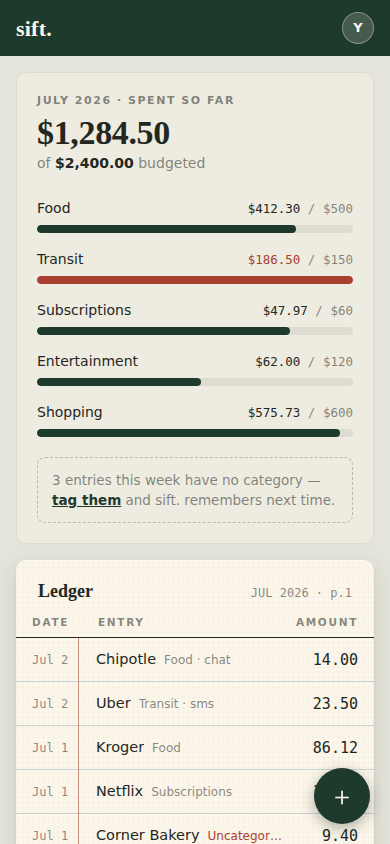
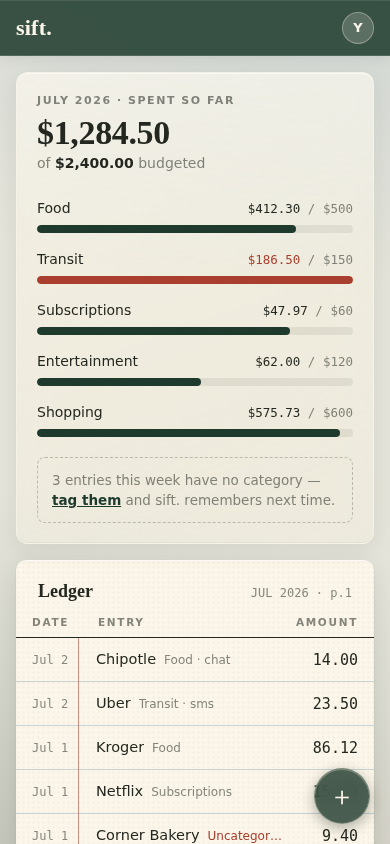
Add liquid-glass tool layer to design: frosted top bar, instrument panels, FAB
Glass is scoped by a three-material rule (blotter desk / paper record /
glass tools): the ledger card stays matte paper; only floating chrome —
sticky top bar, quick-add and chat panels, mobile FAB — gets backdrop
blur, light borders, and a specular top edge, with an @user fallback.
Ambient background washes added so the glass has something to refract.

Claude-Session: https://claude.ai/code/session_01VY6XB6cJspW775NDUbNChs

diff --git a/docs/design/mockups/dashboard.html b/docs/design/mockups/dashboard.html
@@ -24,7 +24,13 @@
   * { margin: 0; padding: 0; box-sizing: border-box; }
 
   body {
-    background: var(--blotter);
+    /* ambient washes give the glass layer something to refract */
+    background:
+      radial-gradient(1100px 640px at 88% -12%, rgba(159, 182, 196, 0.38), transparent 62%),
+      radial-gradient(1200px 760px at -12% 112%, rgba(30, 58, 45, 0.20), transparent 60%),
+      radial-gradient(700px 480px at 55% 118%, rgba(169, 63, 46, 0.07), transparent 65%),
+      var(--blotter);
+    background-attachment: fixed;
     color: var(--ink);
     font-family: "Public Sans", system-ui, sans-serif;
     font-size: 15px;
@@ -36,9 +42,16 @@
 
   :focus-visible { outline: 2px solid var(--banker); outline-offset: 2px; }
 
-  /* ── Top bar: bookcloth ─────────────────────────── */
+  /* ── Top bar: bookcloth behind glass ────────────── */
   .topbar {
-    background: var(--banker);
+    position: sticky;
+    top: 0;
+    z-index: 10;
+    background: rgba(30, 58, 45, 0.86);
+    -webkit-backdrop-filter: blur(14px) saturate(1.5);
+    backdrop-filter: blur(14px) saturate(1.5);
+    border-bottom: 1px solid rgba(251, 246, 233, 0.14);
+    box-shadow: inset 0 1px 0 rgba(251, 246, 233, 0.10), 0 1px 12px rgba(35, 39, 31, 0.10);
     color: var(--page);
     display: flex;
     align-items: center;
@@ -89,11 +102,34 @@
     align-items: start;
   }
 
+  /* ── Glass: the tool layer (never the paper record) ── */
   .panel {
-    background: rgba(251, 246, 233, 0.42);
-    border: 1px solid var(--ink-08);
-    border-radius: 10px;
+    position: relative;
+    background: linear-gradient(160deg, rgba(251, 246, 233, 0.60), rgba(251, 246, 233, 0.34));
+    -webkit-backdrop-filter: blur(16px) saturate(1.4);
+    backdrop-filter: blur(16px) saturate(1.4);
+    border: 1px solid rgba(251, 246, 233, 0.65);
+    border-radius: 12px;
     padding: 20px;
+    box-shadow:
+      inset 0 1px 0 rgba(255, 255, 255, 0.65),
+      inset 0 -1px 0 rgba(35, 39, 31, 0.05),
+      0 6px 22px rgba(35, 39, 31, 0.08);
+  }
+  /* specular sweep along the top edge */
+  .panel::before {
+    content: "";
+    position: absolute;
+    inset: 0 0 auto 0;
+    height: 42%;
+    border-radius: 12px 12px 40% 40%;
+    background: linear-gradient(to bottom, rgba(255, 255, 255, 0.22), transparent);
+    pointer-events: none;
+  }
+  .panel > * { position: relative; } /* content above the sheen */
+  @supports not ((backdrop-filter: blur(1px)) or (-webkit-backdrop-filter: blur(1px))) {
+    .panel { background: rgba(251, 246, 233, 0.88); }
+    .topbar { background: var(--banker); }
   }
 
   .eyebrow {
@@ -425,12 +461,16 @@
     right: 20px; bottom: 20px;
     width: 56px; height: 56px;
     border-radius: 50%;
-    background: var(--banker);
+    background: rgba(30, 58, 45, 0.80);
+    -webkit-backdrop-filter: blur(10px) saturate(1.5);
+    backdrop-filter: blur(10px) saturate(1.5);
     color: var(--page);
-    border: none;
+    border: 1px solid rgba(251, 246, 233, 0.28);
     font-size: 26px;
     line-height: 1;
-    box-shadow: 0 4px 14px rgba(35, 39, 31, 0.35);
+    box-shadow:
+      inset 0 1px 0 rgba(251, 246, 233, 0.30),
+      0 4px 14px rgba(35, 39, 31, 0.35);
   }
   .fab:active { transform: translateY(1px); box-shadow: 0 2px 6px rgba(35,39,31,0.3), inset 0 2px 3px rgba(0,0,0,0.28); }
 

diff --git a/docs/design/2026-07-02-frontend-design.md b/docs/design/2026-07-02-frontend-design.md
@@ -35,10 +35,20 @@ Derived tints (e.g. `banker` at 8% for hover washes, `ink` at 55% for secondary 
 
 Scale: 13 / 15 (body) / 18 / 24 / 40 (monthly total, Besley). Amounts in lists: 15px Plex Mono. Sentence case everywhere; small-caps eyebrows only for column headings on the ledger card (DATE · ENTRY · AMOUNT), where a real ledger would have printed them.
 
+### Materials — three layers, strictly separated
+
+The interface is built from three materials, and each element belongs to exactly one:
+
+1. **Blotter (the desk)** — the matte canvas everything sits on, with faint ambient color washes (feint blue, banker green at low opacity) that give the glass layer something to refract.
+2. **Paper (the record)** — reserved for the ledger card and form inputs. Matte, opaque, ruled. **Paper is never glass**: the record of your money must feel permanent, so the ledger card gets no transparency, no blur, no sheen.
+3. **Glass (the tools)** — liquid-glass treatment for everything that *floats above* the desk rather than lying on it: the sticky top bar, the quick-add and chat instrument panels, the mobile floating action button, and (in-app later) toasts and sheets. Recipe: translucent tint of the layer's base color (`page` at ~50% for light panels, `banker` at ~85% for dark chrome), `backdrop-filter: blur(14–16px) saturate(1.4)`, a 1px light border, an inset top highlight, and a soft specular gradient across the upper edge. An `@supports` fallback swaps to near-opaque fills where `backdrop-filter` is unsupported.
+
+The same scarcity rule that governs skeuomorphism governs glass: it marks the *tool layer* only. Paper records, glass instruments, felt desk — if a new component doesn't clearly belong to one of the three, it's blotter-flat by default.
+
 ### Space, shape, elevation
 
 - 8px base grid; card radius 10px (tactile, not pill-shaped); buttons 8px.
-- **Elevation is reserved for the skeuomorphic elements.** The ledger card gets a soft two-layer shadow + faint inner edge shadow (paper lying on the blotter). Flat panels (budget bars, chat) get a 1px `ink`/8% border and no shadow. This scarcity is what keeps the skeuomorphism "sparing" as the brief demands.
+- **Elevation follows material.** The ledger card (paper) gets a soft two-layer shadow + faint inner edge shadow — paper lying on the blotter. Glass panels get the recipe above (blur, light border, specular top edge, gentle drop shadow — a pane hovering just off the desk). Nothing else casts a shadow. This scarcity is what keeps the skeuomorphism "sparing" as the brief demands.
 - Pressed states (brief requirement): buttons translate down 1px and swap to an inset shadow on `:active` — a light mechanical press, applied to every button uniformly.
 
 ## Layout